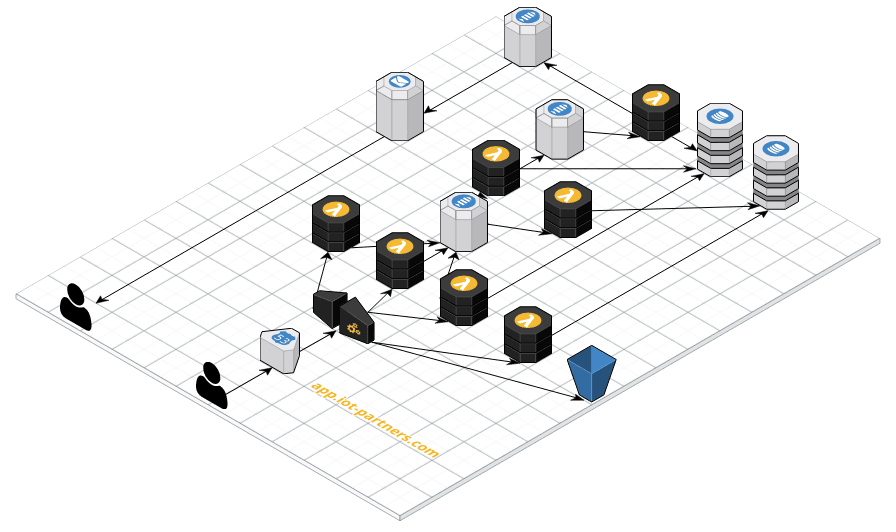
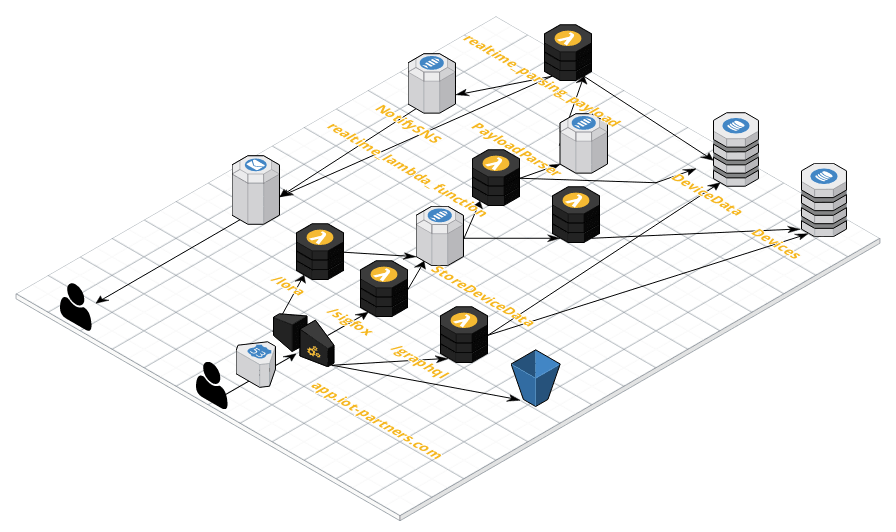
Adding Keep Alive parser and Alarm

diff --git a/test/test_app.py b/test/test_app.py
@@ -23,7 +23,8 @@ class AppTest(unittest.TestCase):
     def setUp(self):
         self.sns_client = TestSNS()
         self.log = TestLog()
-        self.dynamodb = TestDynamoDB()
+        self.dynamodb_device_data = TestDynamoDB()
+        self.dynamodb_device = TestDynamoDB()
         self.str_data = '{"DevEUI_uplink": {"Time": "2017-03-11T11:52:50.412+01:00","DevEUI": "0004A30B001C3306",' \
                         '"FPort": "7","FCntUp": "1","MType": "2","FCntDn": "2","payload_hex": "10bb17f18198100734",' \
                         '"mic_hex": "c00c1cfa","Lrcid": "00000127","LrrRSSI": "-64.000000","LrrSNR": "9.000000",' \
@@ -79,7 +80,7 @@ class AppTest(unittest.TestCase):
             "query_params": {
                 "data": "10bb17f18198100734",
                 "id": "260113E2",
-                "time": "1515360218723"
+                "time": "1515360218"
             },
             "stage_vars": {},
             "uri_params": {}
@@ -87,7 +88,7 @@ class AppTest(unittest.TestCase):
 
         parsed_dic = Server.parse_sigfox_dic(data_dic)
 
-        d = datetime.utcfromtimestamp(int("1515360218723") / 1e3)
+        d = datetime.utcfromtimestamp(int("1515360218") * 1000 / 1e3)
         json_date = str(d.isoformat()) + "Z"
 
         virtual_tx = "260113E2" + "-" + json_date
@@ -95,7 +96,7 @@ class AppTest(unittest.TestCase):
         hex_dig = hash_object.hexdigest()
 
         self.assertEqual(parsed_dic["time_json"], json_date)
-        self.assertEqual(parsed_dic["timeStamp"], int("1515360218723"))
+        self.assertEqual(parsed_dic["timeStamp"], int("1515360218"))
         self.assertEqual(parsed_dic["payload"], "10bb17f18198100734")
         self.assertEqual(parsed_dic["DevEUI"], "260113E2")
         self.assertEqual(parsed_dic["type"], "SIGFOX")
@@ -117,7 +118,7 @@ class AppTest(unittest.TestCase):
[1 lines of base64/hex data omitted]
         }
 
-        server = Server(None, self.sns_client, self.log)
+        server = Server(None, None, self.sns_client, self.log)
         expected_message = json.dumps(data_to_publish)
         server.publish_data_store_device(data_to_publish)
         self.assertEqual(1, self.sns_client.return_published_times())
@@ -125,7 +126,7 @@ class AppTest(unittest.TestCase):
         self.assertEqual("arn:aws:sns:eu-west-1:488643450383:StoreDeviceData", self.sns_client.return_topicarn())
 
     def test_persist_data_to_DynamoDB(self):
-        server = Server(self.dynamodb, None, self.log)
+        server = Server(self.dynamodb_device_data, None, None, self.log)
         expected_item = {
             'title': "The Big New Movie",
             'year': 2015,
@@ -135,8 +136,8 @@ class AppTest(unittest.TestCase):
             }
         }
         server.persist_data(expected_item)
-        self.assertEqual(1, self.dynamodb.return_persisted_times())
-        self.assertEqual(expected_item, self.dynamodb.return_persisted_item())
+        self.assertEqual(1, self.dynamodb_device_data.return_persisted_times())
+        self.assertEqual(expected_item, self.dynamodb_device_data.return_persisted_item())
 
     def test_parsing_none_known_payload(self):
         expected_item = {"virtual_tx": "A001", "time_json": "2017-01-21T12:12:12.001Z", "timeStamp": 1499366509000,
@@ -168,6 +169,75 @@ class AppTest(unittest.TestCase):
         self.assertEqual(str(lat), geolocation["GEO"]["lat"])
         self.assertEqual(str(lng), geolocation["GEO"]["lng"])
 
+    # Example query:
+    # http "https://d8dsx2bkn9.execute-api.eu-west-1.amazonaws.com/api/sigfox?time=1510098998&id=260113E3&data=02180AE4"
+    def test_parsing_keep_alive_payload(self):
+        expected_item = {"virtual_tx": "A001", "time_json": "2017-01-21T12:12:12.001Z", "timeStamp": 1499366509000,
+                         "payload": "02180AE4",
+                         "DevEUI": "260113E3", "type": "LORA", "extra": "{}"}
+
+        keep_alive = Server.parse_payload(expected_item)
+        self.assertIsNotNone(keep_alive)
+
+        payload = expected_item["payload"]
+        interval = payload[2:4]
+        interval_int = int(interval, 16)
+
+        voltatge_hex = payload[4:8]
+        voltatge_hex_dec = int(voltatge_hex, 16) / 1000
+
+        self.assertEqual(1499366509000, keep_alive["timeStamp"])
+        self.assertIsNotNone(keep_alive["KA"])
+
+        self.assertEqual(str(interval_int), keep_alive["KA"]["interval"])
+        self.assertEqual(str(voltatge_hex_dec), keep_alive["KA"]["voltage"])
+
+    def test_dispatch_alarm_Keep_Alive_low_value(self):
+        server = Server(None, None, self.sns_client, self.log)
+        virtual_tx = "AE1234567"
+        data = {"timeStamp": "1499366509000",
+                "DevEUI": "260113E3",
+                "KA":
+                    {"interval": "24",
+                     "voltage": "2.456"}}
+
+        server.dispatch_alarm(virtual_tx, data)
+
+        data.update({"virtual_tx": virtual_tx})
+        expected_message = json.dumps(data)
+
+        self.assertEqual(1, self.sns_client.return_published_times())
+        self.assertEqual("arn:aws:sns:eu-west-1:488643450383:NotifySNS", self.sns_client.return_topicarn())
+        self.assertEqual(expected_message, self.sns_client.return_message())
+        self.assertEqual("Triggered Alarm 260113E3", self.sns_client.return_subject())
+
+    def test_not_update_data_in_DynamoDB_if_None(self):
+        server = Server(self.dynamodb_device_data, None, None, self.log)
+        expected_item = None
+
+        server.update_data(expected_item)
+        self.assertEqual(0, self.dynamodb_device_data.return_updated_times())
+
+    def test_update_data_in_DynamoDB(self):
+        server = Server(self.dynamodb_device_data, None, None, self.log)
+        expected_item = {
+            "timeStamp": 1499366509000,
+            "DevEUI": "260113E3",
+            "GEO": {"lat": "12.5", "lng": "1.4"}
+        }
+
+        server.update_data(expected_item)
+        self.assertEqual(1, self.dynamodb_device_data.return_updated_times())
+        self.assertEqual(
+            {"timeStamp": 1499366509000, "DevEUI": "260113E3"},
+            self.dynamodb_device_data.return_updated_item()["Key"])
+        self.assertEqual(
+            'SET geo = :val',
+            self.dynamodb_device_data.return_updated_item()["UpdateExpression"])
+        self.assertEqual(
+            {':val': {"lat": "12.5", "lng": "1.4"}},
+            self.dynamodb_device_data.return_updated_item()["ExpressionAttributeValues"])
+
     @staticmethod
     def printGeoLocation(lat, lat_hex, lat_str, lng_hex, lng_str, payload, lng):
         str_packet_id = str_packet_id = payload[:2]
@@ -179,33 +249,6 @@ class AppTest(unittest.TestCase):
         print("lng_hex:\t" + lng_hex)
         print("lng_str:\t" + str(lng_str))
         print("lat: " + str(lat) + ", lng: " + str(lng))
-
-    def test_not_update_data_in_DynamoDB_if_None(self):
-        server = Server(self.dynamodb, None, self.log)
-        expected_item = None
-
-        server.update_data(expected_item)
-        self.assertEqual(0, self.dynamodb.return_updated_times())
-
-    def test_update_data_in_DynamoDB(self):
-        server = Server(self.dynamodb, None, self.log)
-        expected_item = {
-            "timeStamp": 1499366509000,
-            "DevEUI": "260113E3",
-            "GEO": {"lat": "12.5", "lng": "1.4"}
-        }
-
-        server.update_data(expected_item)
-        self.assertEqual(1, self.dynamodb.return_updated_times())
-        self.assertEqual(
-            {"timeStamp": 1499366509000, "DevEUI": "260113E3"},
-            self.dynamodb.return_updated_item()["Key"])
-        self.assertEqual(
-            'SET geo = :val',
-            self.dynamodb.return_updated_item()["UpdateExpression"])
-        self.assertEqual(
-            {':val': {"lat": "12.5", "lng": "1.4"}},
-            self.dynamodb.return_updated_item()["ExpressionAttributeValues"])
 
 
 class TestLog:
@@ -246,6 +289,9 @@ class TestSNS:
 
     def return_published_times(self):
         return self.published
+
+    def return_subject(self):
+        return self.Subject
 
 
 class TestDynamoDB:

diff --git a/chalicelib/server.py b/chalicelib/server.py
@@ -26,12 +26,21 @@ def extract_lat_long(payload):
     return geoloc
 
 
+def extract_keep_alive(payload):
+    interval = payload[2:4]
+    interval_int = int(interval, 16)
+    voltatge_hex = payload[4:8]
+    voltatge_hex_dec = int(voltatge_hex, 16) / 1000
+    return {"interval": str(interval_int), "voltage": str(voltatge_hex_dec)}
+
+
 class Server:
-    def __init__(self, table, sns_client, log):
-        self.table = table
+    def __init__(self, device_data_table, device_table, sns_client, log):
+        self.table = device_data_table
         self.sns_client = sns_client
         self.log = log
 
+    # StoreDeviceData executes realtime_lambda_function
     def publish_data_store_device(self, data_to_publish):
         self.log.debug("publishing virtual_tx:" + data_to_publish["virtual_tx"])
         expected_message = json.dumps(data_to_publish)
@@ -42,6 +51,7 @@ class Server:
             Message=expected_message
         )
 
+    # PayloadParser executes realtime_parsing_payload
     def publish_data_payload_parser(self, data_to_publish):
         self.log.debug("publishing virtual_tx for payload" + data_to_publish["virtual_tx"])
         expected_message = json.dumps(data_to_publish)
@@ -72,6 +82,11 @@ class Server:
                 expression_attribute_values = {
                     ':val': event["GEO"]
                 }
+            if "KA" in event:
+                update_expression = 'SET ka = :val'
+                expression_attribute_values = {
+                    ':val': event["KA"]
+                }
 
             response = self.table.update_item(
                 Key={"timeStamp": event["timeStamp"], "DevEUI": event["DevEUI"]},
@@ -87,6 +102,27 @@ class Server:
             print(e)
             raise NotFoundError("Error updating an element on dynamodb")
 
+    # NotifySNS sends a mail
+    def dispatch_alarm(self, virtual_tx, data):
+        is_alarm_activated = False
+
+        if "KA" in data:
+            voltage = float(data["KA"]["voltage"])
+            if voltage <= 2.65:
+                is_alarm_activated = True
+
+        if not is_alarm_activated:
+            return
+
+        data.update({"virtual_tx": virtual_tx})
+        expected_message = json.dumps(data)
+        self.log.debug("dispatch_alarm virtual_tx:" + virtual_tx)
+        self.sns_client.publish(
+            TopicArn="arn:aws:sns:eu-west-1:488643450383:NotifySNS",
+            Subject="Triggered Alarm " + data["DevEUI"],
+            Message=expected_message
+        )
+
     @staticmethod
     def parse_payload(body):
         try:
@@ -95,8 +131,8 @@ class Server:
 
             if str_packet_id == "10":
                 return {"timeStamp": body["timeStamp"], "DevEUI": body["DevEUI"], "GEO": extract_lat_long(payload)}
-            elif str_packet_id == "NEW_TYPE":
-                return {"timeStamp": body["timeStamp"], "DevEUI": body["DevEUI"], "TMP": "32"}
+            elif str_packet_id == "02":
+                return {"timeStamp": body["timeStamp"], "DevEUI": body["DevEUI"], "KA": extract_keep_alive(payload)}
 
         except Exception as e:
             print(e)
@@ -124,7 +160,7 @@ class Server:
     @staticmethod
     def parse_sigfox_dic(sigfox_dic):
         time = sigfox_dic["query_params"]["time"]
-        d = datetime.utcfromtimestamp(int(time) / 1e3)
+        d = datetime.utcfromtimestamp((int(time) * 1000) / 1e3)
         json_date = str(d.isoformat()) + "Z"
         payload = sigfox_dic["query_params"]["data"]
         device_id = sigfox_dic["query_params"]["id"]

diff --git a/app.py b/app.py
@@ -6,7 +6,7 @@ Here we have all the lambda definitions and Gateway calls
 @mail: eduard@iot-partners.com
 """
 
-from chalice import Chalice, NotFoundError, Response
+from chalice import Chalice, NotFoundError, Response, BadRequestError
 import json
 import os
 import boto3
@@ -18,13 +18,16 @@ app = Chalice(app_name='platform')
 app.log.setLevel(logging.DEBUG)
 app.debug = True
 
-DEVICE_TABLE = os.getenv('APP_TABLE_NAME', 'defaultTable')
+DEVICE_DATA_TABLE = os.getenv('APP_TABLE_NAME', 'defaultTable')
+DEVICE_TABLE = os.getenv('DEVICES_TABLE_NAME', 'defaultTable')
 SNS_TOPIC = os.getenv('SNS_TOPIC', 'defaultSNS')
 
-table = boto3.resource('dynamodb').Table(DEVICE_TABLE)
+device_data_table = boto3.resource('dynamodb').Table(DEVICE_DATA_TABLE)
+device_table = boto3.resource('dynamodb').Table(DEVICE_TABLE)
+
 sns_client = boto3.client('sns')
 
-server = Server(table, sns_client, app.log)
+server = Server(device_data_table, device_table, sns_client, app.log)
 
 
 @app.lambda_function()
@@ -50,6 +53,8 @@ def realtime_parsing_payload(event, context):
         message = record["Sns"]["Message"]
         message_dic = json.loads(message)
         parsed = Server.parse_payload(message_dic)
+        virtual_tx = message["virtual_tx"]
+        server.dispatch_alarm(virtual_tx, parsed)
         server.update_data(parsed)
 
     app.log.debug("Parsing payload done")
@@ -75,7 +80,7 @@ def lora():
         return parsed_json
     except KeyError:
             app.log.error("Error parsing LORA document")
-            raise NotFoundError()
+            raise BadRequestError("Error parsing LORA document")
 
 
 @app.route('/sigfox')
@@ -84,7 +89,9 @@ def sigfox():
         parsed_dic = Server.parse_sigfox_dic(app.current_request.to_dict())
         app.log.debug("Received event virtual_tx:" + parsed_dic["virtual_tx"])
         server.publish_data_store_device(parsed_dic)
-        return parsed_dic
+        return Response(body='',
+                        status_code=200,
+                        headers={'Content-Type': 'text/plain'})
     except KeyError:
         app.log.error("Error parsing SIGFOX document")
-        raise NotFoundError()
+        raise BadRequestError("Error parsing SIGFOX document")

diff --git a/README.md b/README.md
@@ -2,7 +2,10 @@
 
 This repository is an [**AWS Chalice**](https://github.com/aws/chalice) project that automates the creation of a Serverless platform. It creates the AWS Lambda, AWS Gateway and AWS Roles necessary to create the platform.
 
+[This](https://d8dsx2bkn9.execute-api.eu-west-1.amazonaws.com/api/) is the internal url. 
+
 ![Alt text](IoT_Partners_Serverless_Platform.png?raw=true "Serverless Architecture")
+[Architecture Diagram](https://cloudcraft.co/view/8ad8f0b4-a6b4-4d8c-bcf2-fd2183804bef?key=FVEx48k-viBNqfo7fmSkiw)
 
 ## Working with Chalice
 
@@ -41,7 +44,7 @@ Creating virtual environment
 And finally install AWS Chalice
 ```commandline
  $ pip install chalice
- ```
+```
 Or 
 ```commandline
  $ sudo python -m pip install -U chalice
